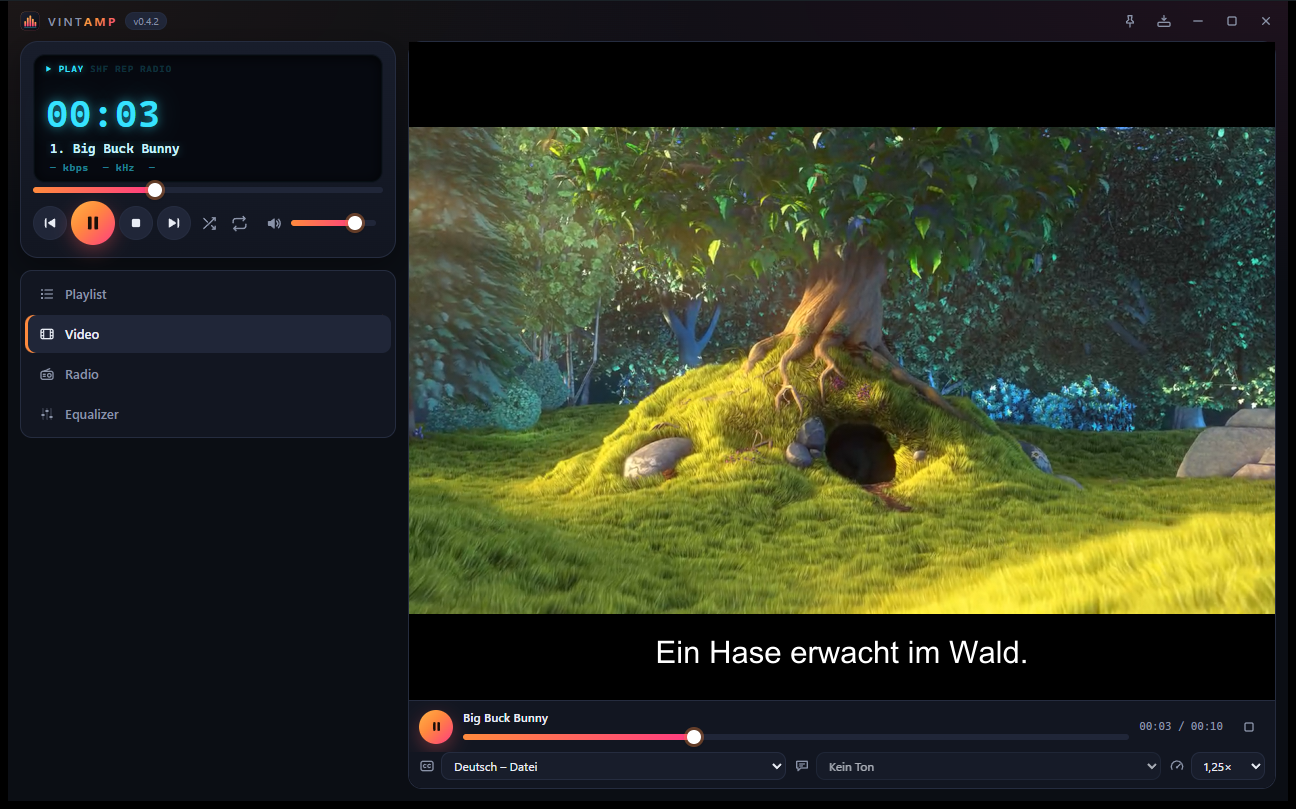
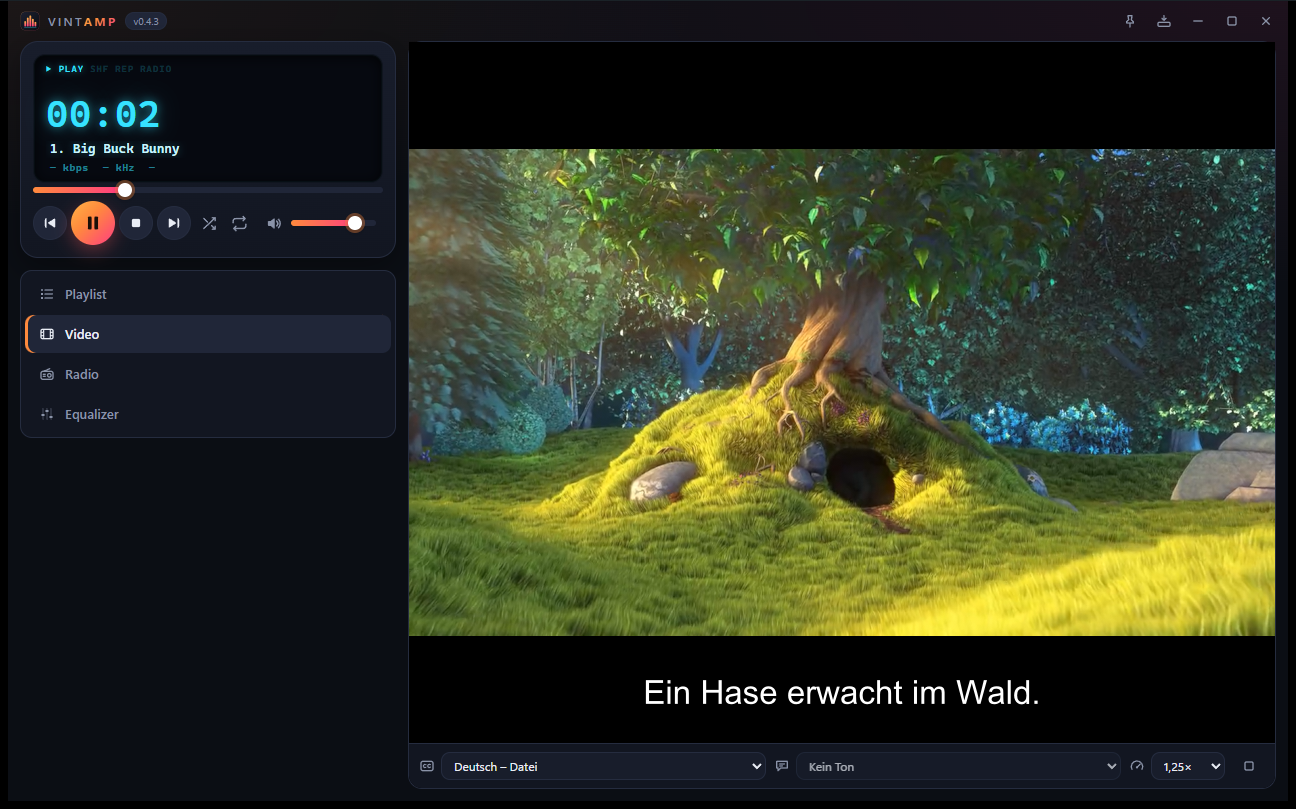
Docs: aufgeräumte Video-Steuerung (v0.4.3)

Changed region(s): [[0.3086, 0.1545, 0.9877, 0.958], [0.0926, 0.2163, 0.1235, 0.2472], [0.0926, 0.1236, 0.1235, 0.1545]]

diff --git a/README.md b/README.md
@@ -42,9 +42,10 @@ Mini-Modus – im modernen dunklen Design. Auf Deutsch und Englisch.
 **Abspielen**
 - Spielt praktisch jedes Audioformat: MP3, FLAC, OGG/Opus, AAC/M4A, WAV, WMA, APE und mehr
 - Videos (MP4, MKV, WebM, AVI …) laufen direkt im Vintamp-Fenster im Reiter „Video“ – mit
-  eigener Bedienleiste; Klick ins Bild pausiert, Doppelklick oder F schaltet auf Vollbild, Esc zurück
+  schlanker Leiste (Zeit und Spulen oben im Player); Klick ins Bild pausiert, Doppelklick oder F
+  schaltet auf Vollbild, Esc zurück – im Vollbild blendet die Leiste nach 3 Sekunden ohne Mausbewegung aus
 - Untertitel ein- und ausschalten oder eine Untertiteldatei (SRT, ASS, VTT …) laden – passende
-  Dateien neben dem Video findet Vintamp selbst; Tonspur bzw. Sprache wählen; Geschwindigkeit 0,5× bis 2×
+  Dateien neben dem Video findet Vintamp selbst; Tonspur bzw. Sprache wählen (mit verständlichen Namen wie „Deutsch – erzwungen“); Geschwindigkeit 0,5× bis 2×
   ohne Mickymaus-Stimme
 - Display mit Leuchtziffern: Spielzeit (Klick wechselt zwischen verstrichen und verbleibend),
   Lauftext mit Interpret und Titel, Bitrate, Abtastrate und Kanäle
